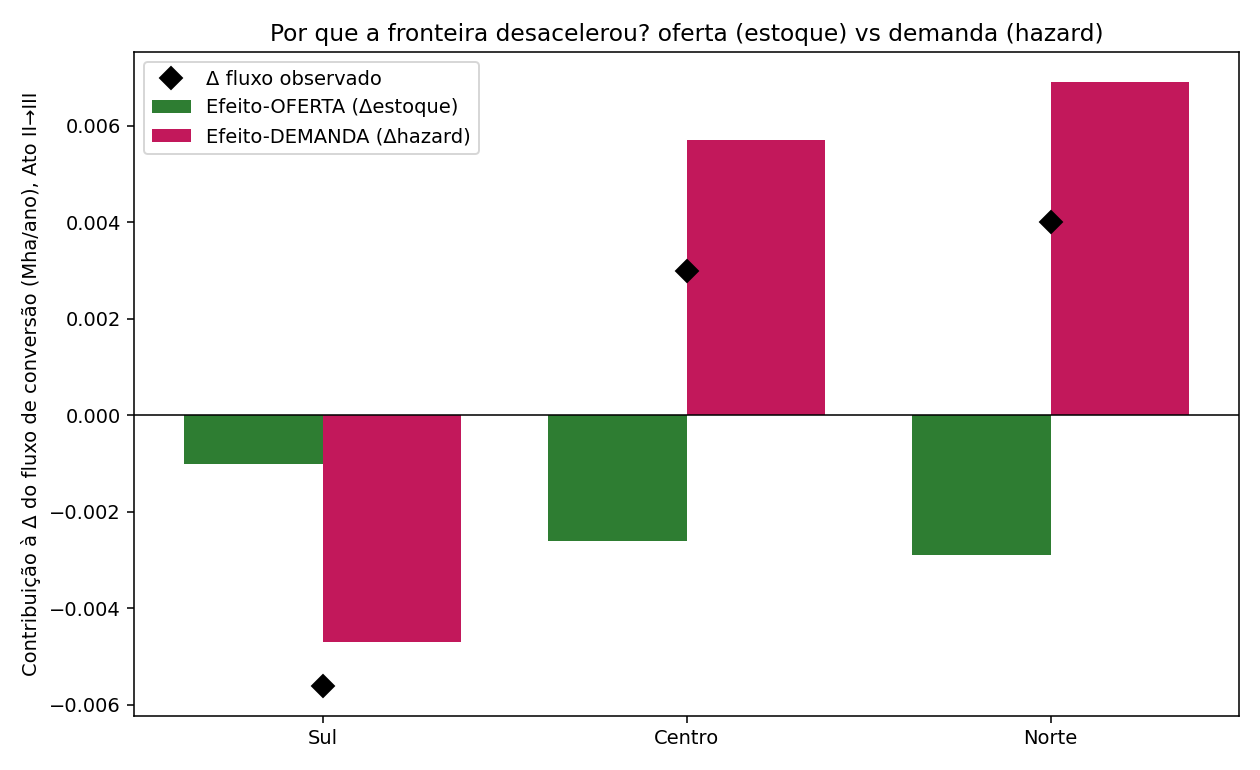
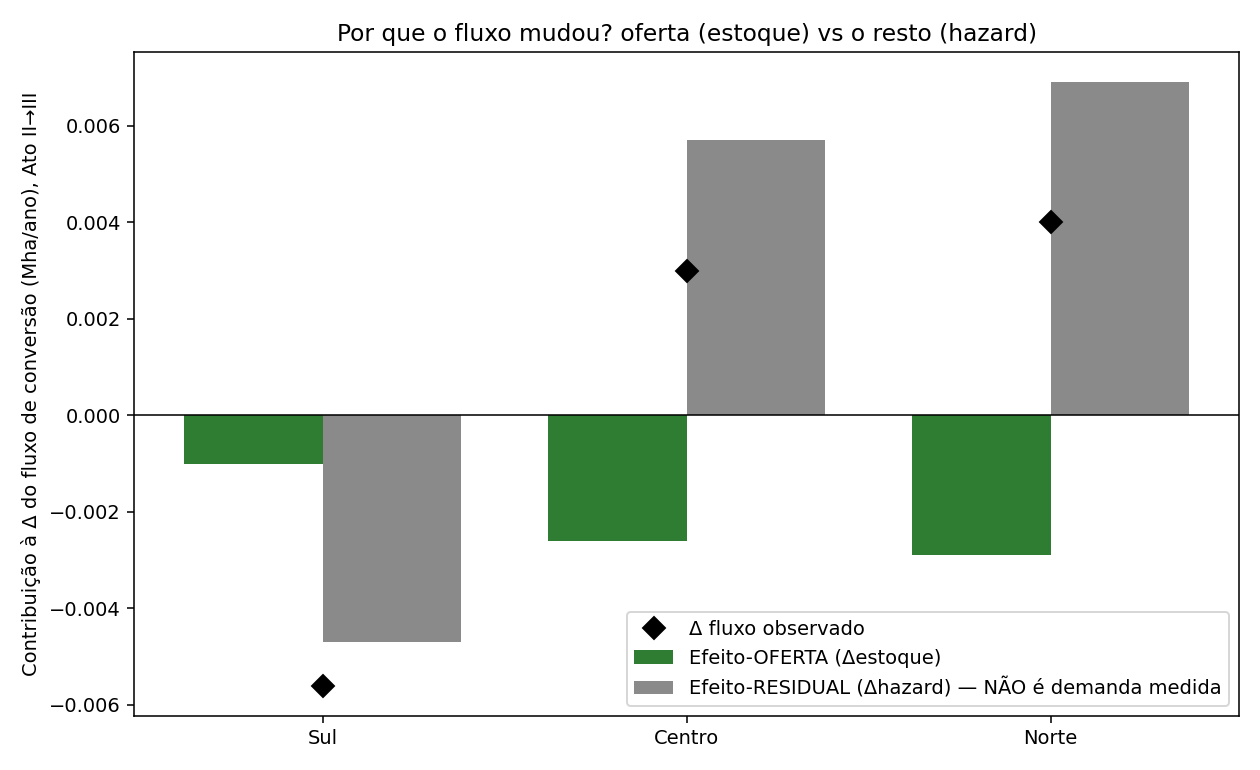
fix(#39): rótulo "Efeito-DEMANDA"→"RESIDUAL" e PNG regenerado
A figura decomposicao_oferta_demanda.png publicada dizia "Efeito-DEMANDA" ao
lado da manchete "não foi a demanda, foi a oferta" — sendo que no Sul aquela
barra (Δhazard) é 83% da freada e NÃO é demanda medida. O fix do rótulo (barra
cinza "Efeito-RESIDUAL — NÃO é demanda medida" + título "oferta vs o resto")
estava só na working tree; aqui commita o script + doc e REGENERA o PNG
(outputs/ → Visualizacao/img/marcha_norte/). Gera a D27.

diff --git a/scripts/fronteira_fechando.py b/scripts/fronteira_fechando.py
@@ -350,8 +350,11 @@ def decomposicao(est: pd.DataFrame) -> pd.DataFrame:
         h2, h3 = piv[("hazard", "II")][reg],     piv[("hazard", "III")][reg]
         f2, f3 = piv[("fluxo_mha_ano", "II")][reg], piv[("fluxo_mha_ano", "III")][reg]
         sbar, hbar = (s2 + s3) / 2, (h2 + h3) / 2
-        ef_estoque = hbar * (s3 - s2)        # efeito-OFERTA  (menos terra disponível)
-        ef_hazard  = sbar * (h3 - h2)        # efeito-DEMANDA (conversão por unidade muda)
+        ef_estoque = hbar * (s3 - s2)        # efeito-OFERTA   (menos terra disponível)
+        # RESIDUAL, não "demanda": o hazard capta tudo o que não é o volume do
+        # estoque — propensão a converter, atrito de acesso, proteção e troca da
+        # fonte de terra. Ver a "Ressalva de rótulo" no §3 do 39_fronteira_fechando.md.
+        ef_hazard  = sbar * (h3 - h2)        # efeito-RESIDUAL (a taxa por unidade muda)
         dflow = f3 - f2
         # Shares só quando Δfluxo não é ~ruído; senão os efeitos opostos quase se
         # cancelam e a razão explode → reportar NaN.
@@ -446,12 +449,13 @@ def figuras(reg_df: pd.DataFrame, est: pd.DataFrame, dec: pd.DataFrame) -> None:
     fig, ax = plt.subplots(figsize=(9, 5.5))
     x = np.arange(len(dd)); w = 0.38
     ax.bar(x - w / 2, dd["efeito_estoque"], w, color="#2e7d32", label="Efeito-OFERTA (Δestoque)")
-    ax.bar(x + w / 2, dd["efeito_hazard"], w, color="#c2185b", label="Efeito-DEMANDA (Δhazard)")
+    ax.bar(x + w / 2, dd["efeito_hazard"], w, color="#8a8a8a",
+           label="Efeito-RESIDUAL (Δhazard) — NÃO é demanda medida")
     ax.plot(x, dd["d_fluxo"], "D", color="k", ms=8, label="Δ fluxo observado")
     ax.axhline(0, color="k", lw=0.8)
     ax.set_xticks(x); ax.set_xticklabels(dd["regiao"])
     ax.set_ylabel("Contribuição à Δ do fluxo de conversão (Mha/ano), Ato II→III")
-    ax.set_title("Por que a fronteira desacelerou? oferta (estoque) vs demanda (hazard)")
+    ax.set_title("Por que o fluxo mudou? oferta (estoque) vs o resto (hazard)")
     ax.legend()
     fig.tight_layout(); fig.savefig(DIR_OUT / "decomposicao_oferta_demanda.png", dpi=140); plt.close(fig)
 

diff --git a/Textos/pipelines/39_fronteira_fechando.md b/Textos/pipelines/39_fronteira_fechando.md
@@ -126,6 +126,19 @@ Decomposição do Δ do fluxo de conversão de vegetação (Mha/ano):
 > desaceleração do Sul é oferta, e não demanda fraca, não repousa neste rótulo, e sim no teste
 > hazard-plano (B2) somado à demanda macro **subindo** no Ato III (item 4).
 
+> ⚠ **Autocorreção (2026-07-28) — a ressalva acima valeu para o texto e não para a figura.**
+> `outputs/fronteira_fechando/decomposicao_oferta_demanda.png` continuou exportando a barra com o
+> rótulo retratado, **"Efeito-DEMANDA"**, e foi essa figura que a visualização publicou — ao lado
+> da manchete "não foi a demanda, foi a oferta", sendo que no Sul aquela barra é **83% da freada**
+> (`share_hazard = 0,828`). Ou seja: a peça afirmava uma coisa no texto e a oposta na figura.
+> Corrigido na origem em `scripts/fronteira_fechando.py` — a barra agora é cinza e se chama
+> *"Efeito-RESIDUAL (Δhazard) — NÃO é demanda medida"*, e o título pergunta "oferta (estoque) vs o
+> resto (hazard)". **Quem reusar este PNG precisa re-exportá-lo**; versões geradas antes de
+> 28/07/2026 carregam o rótulo errado. O episódio gerou a **D27**
+> ([metodologia/auditoria_de_figuras.md](../metodologia/auditoria_de_figuras.md)): o rótulo de uma
+> figura é uma afirmação, e ele envelhece quando a auditoria muda a conclusão sem re-rodar o
+> script.
+
 ### 4. A demanda NÃO esfriou no Ato III — reforça a leitura de oferta no Sul
 
 Níveis médios dos drivers (#37) por ato: câmbio real 134,5→**169,0**; preço recebido soja
